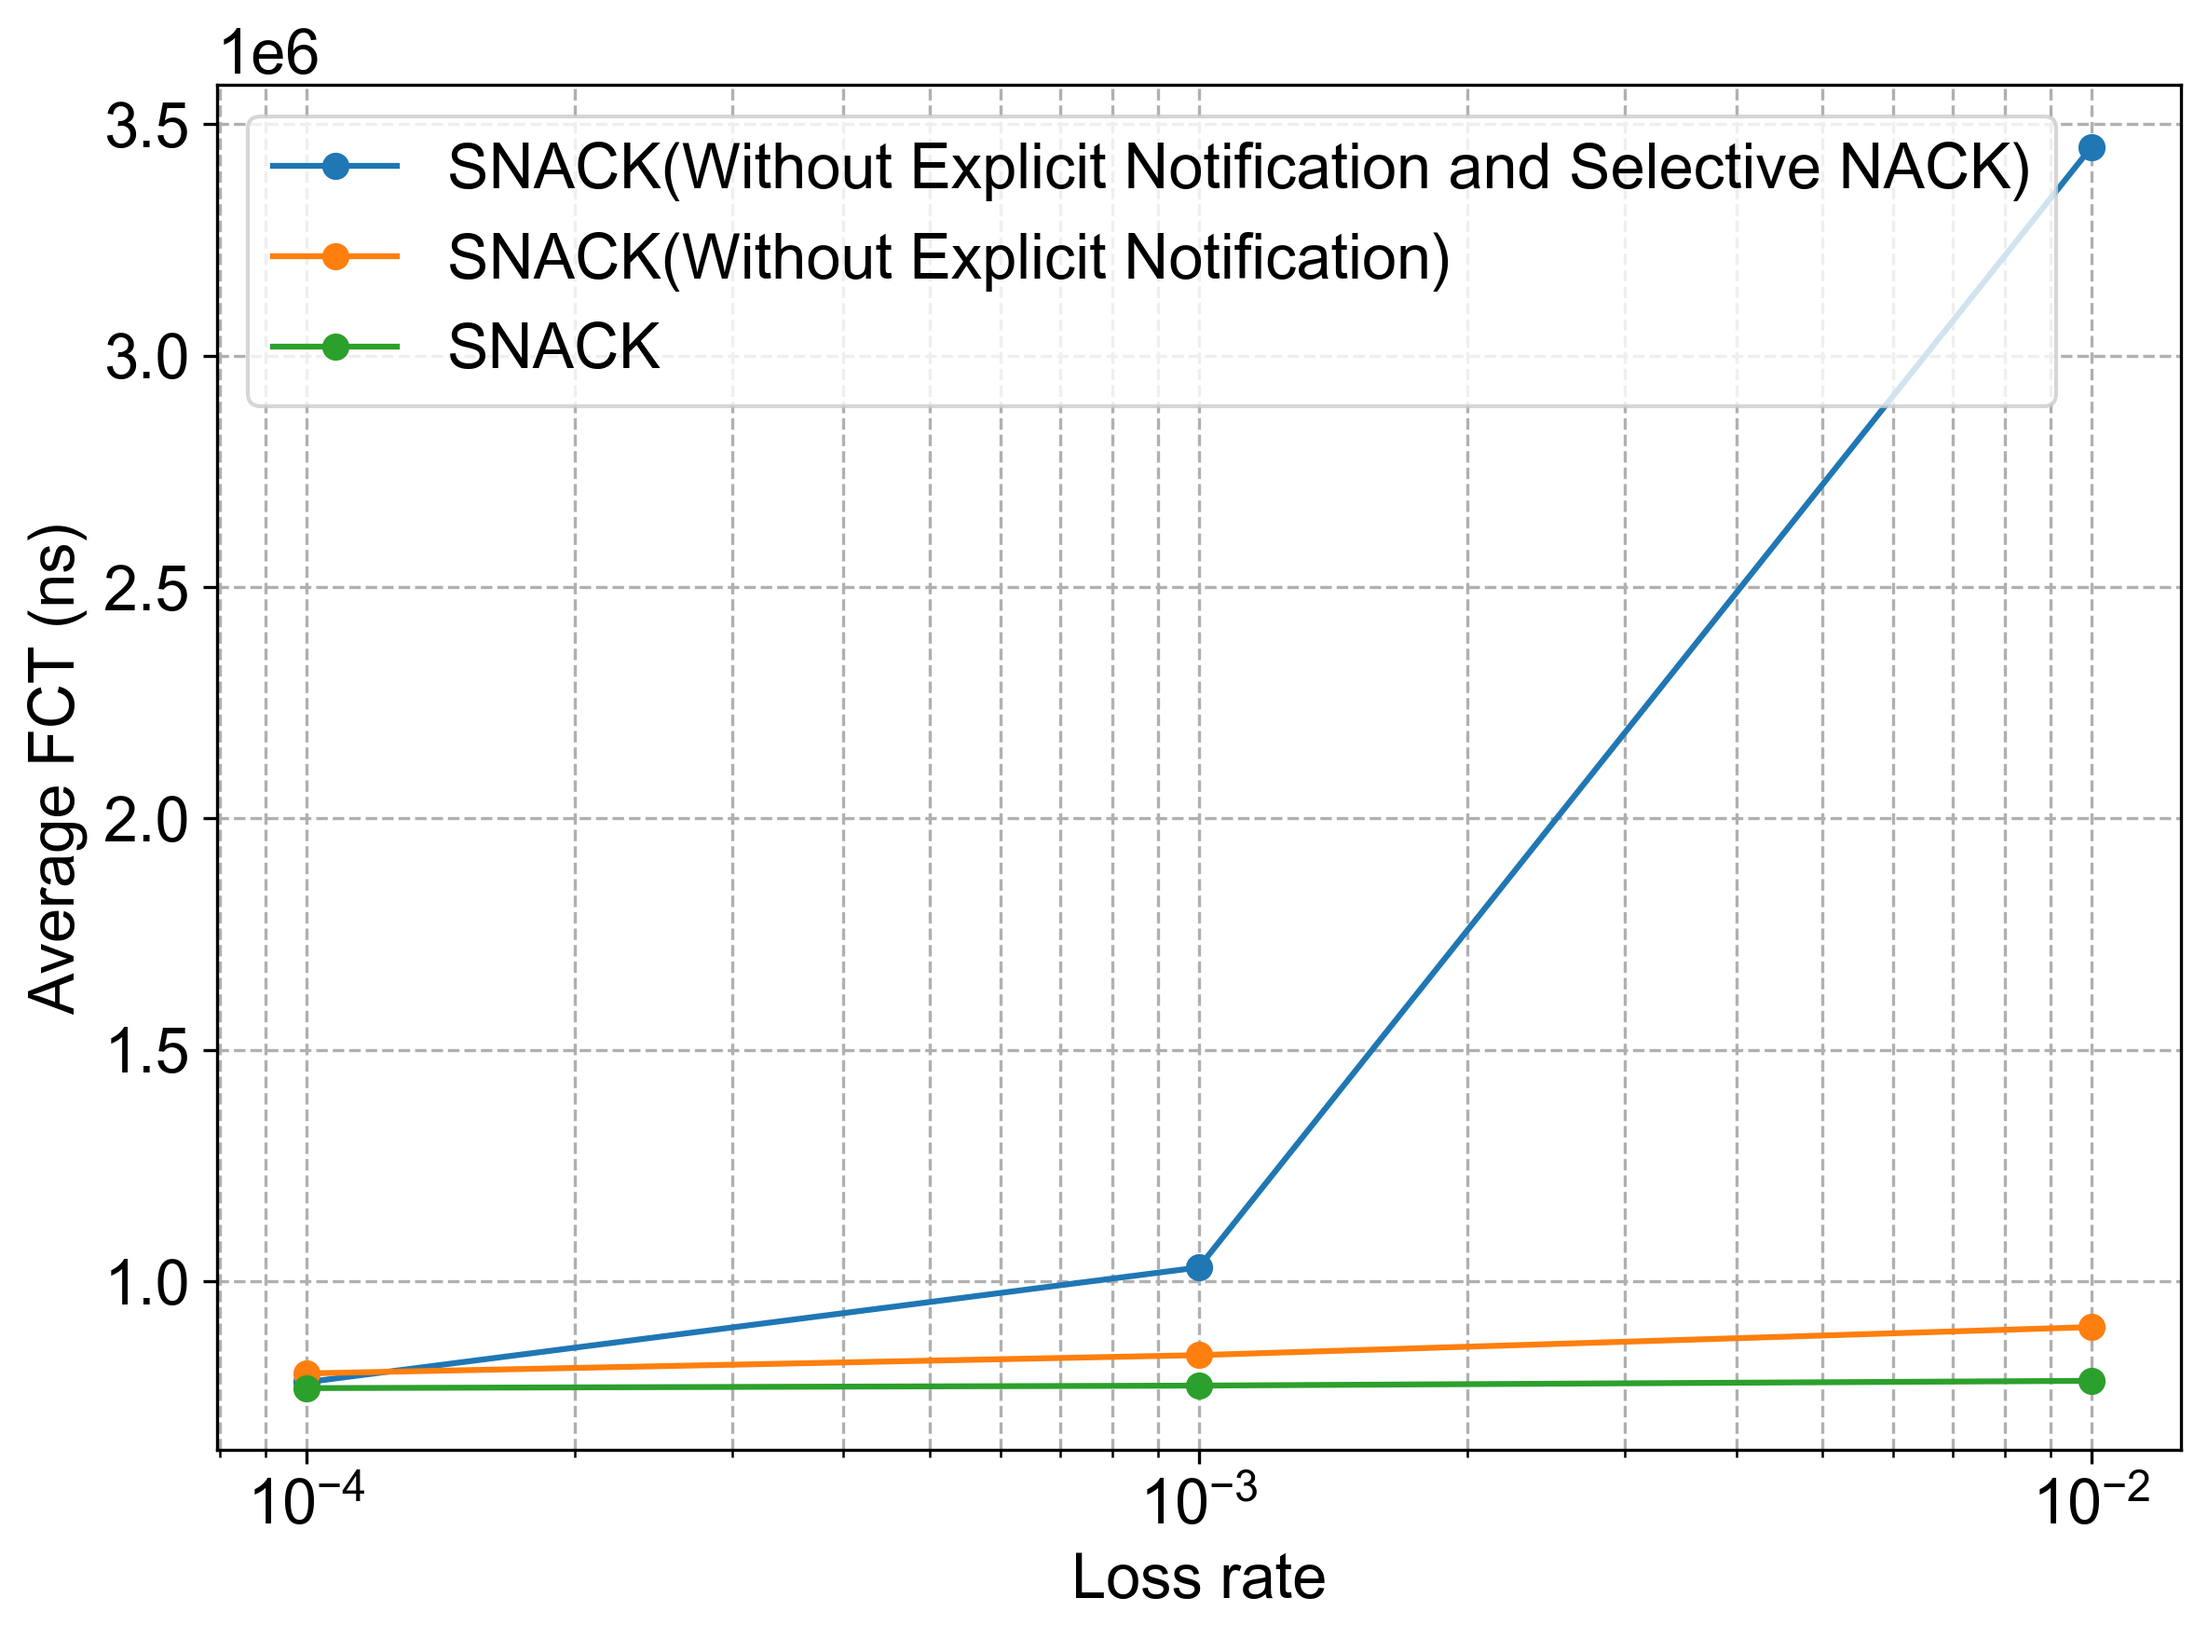
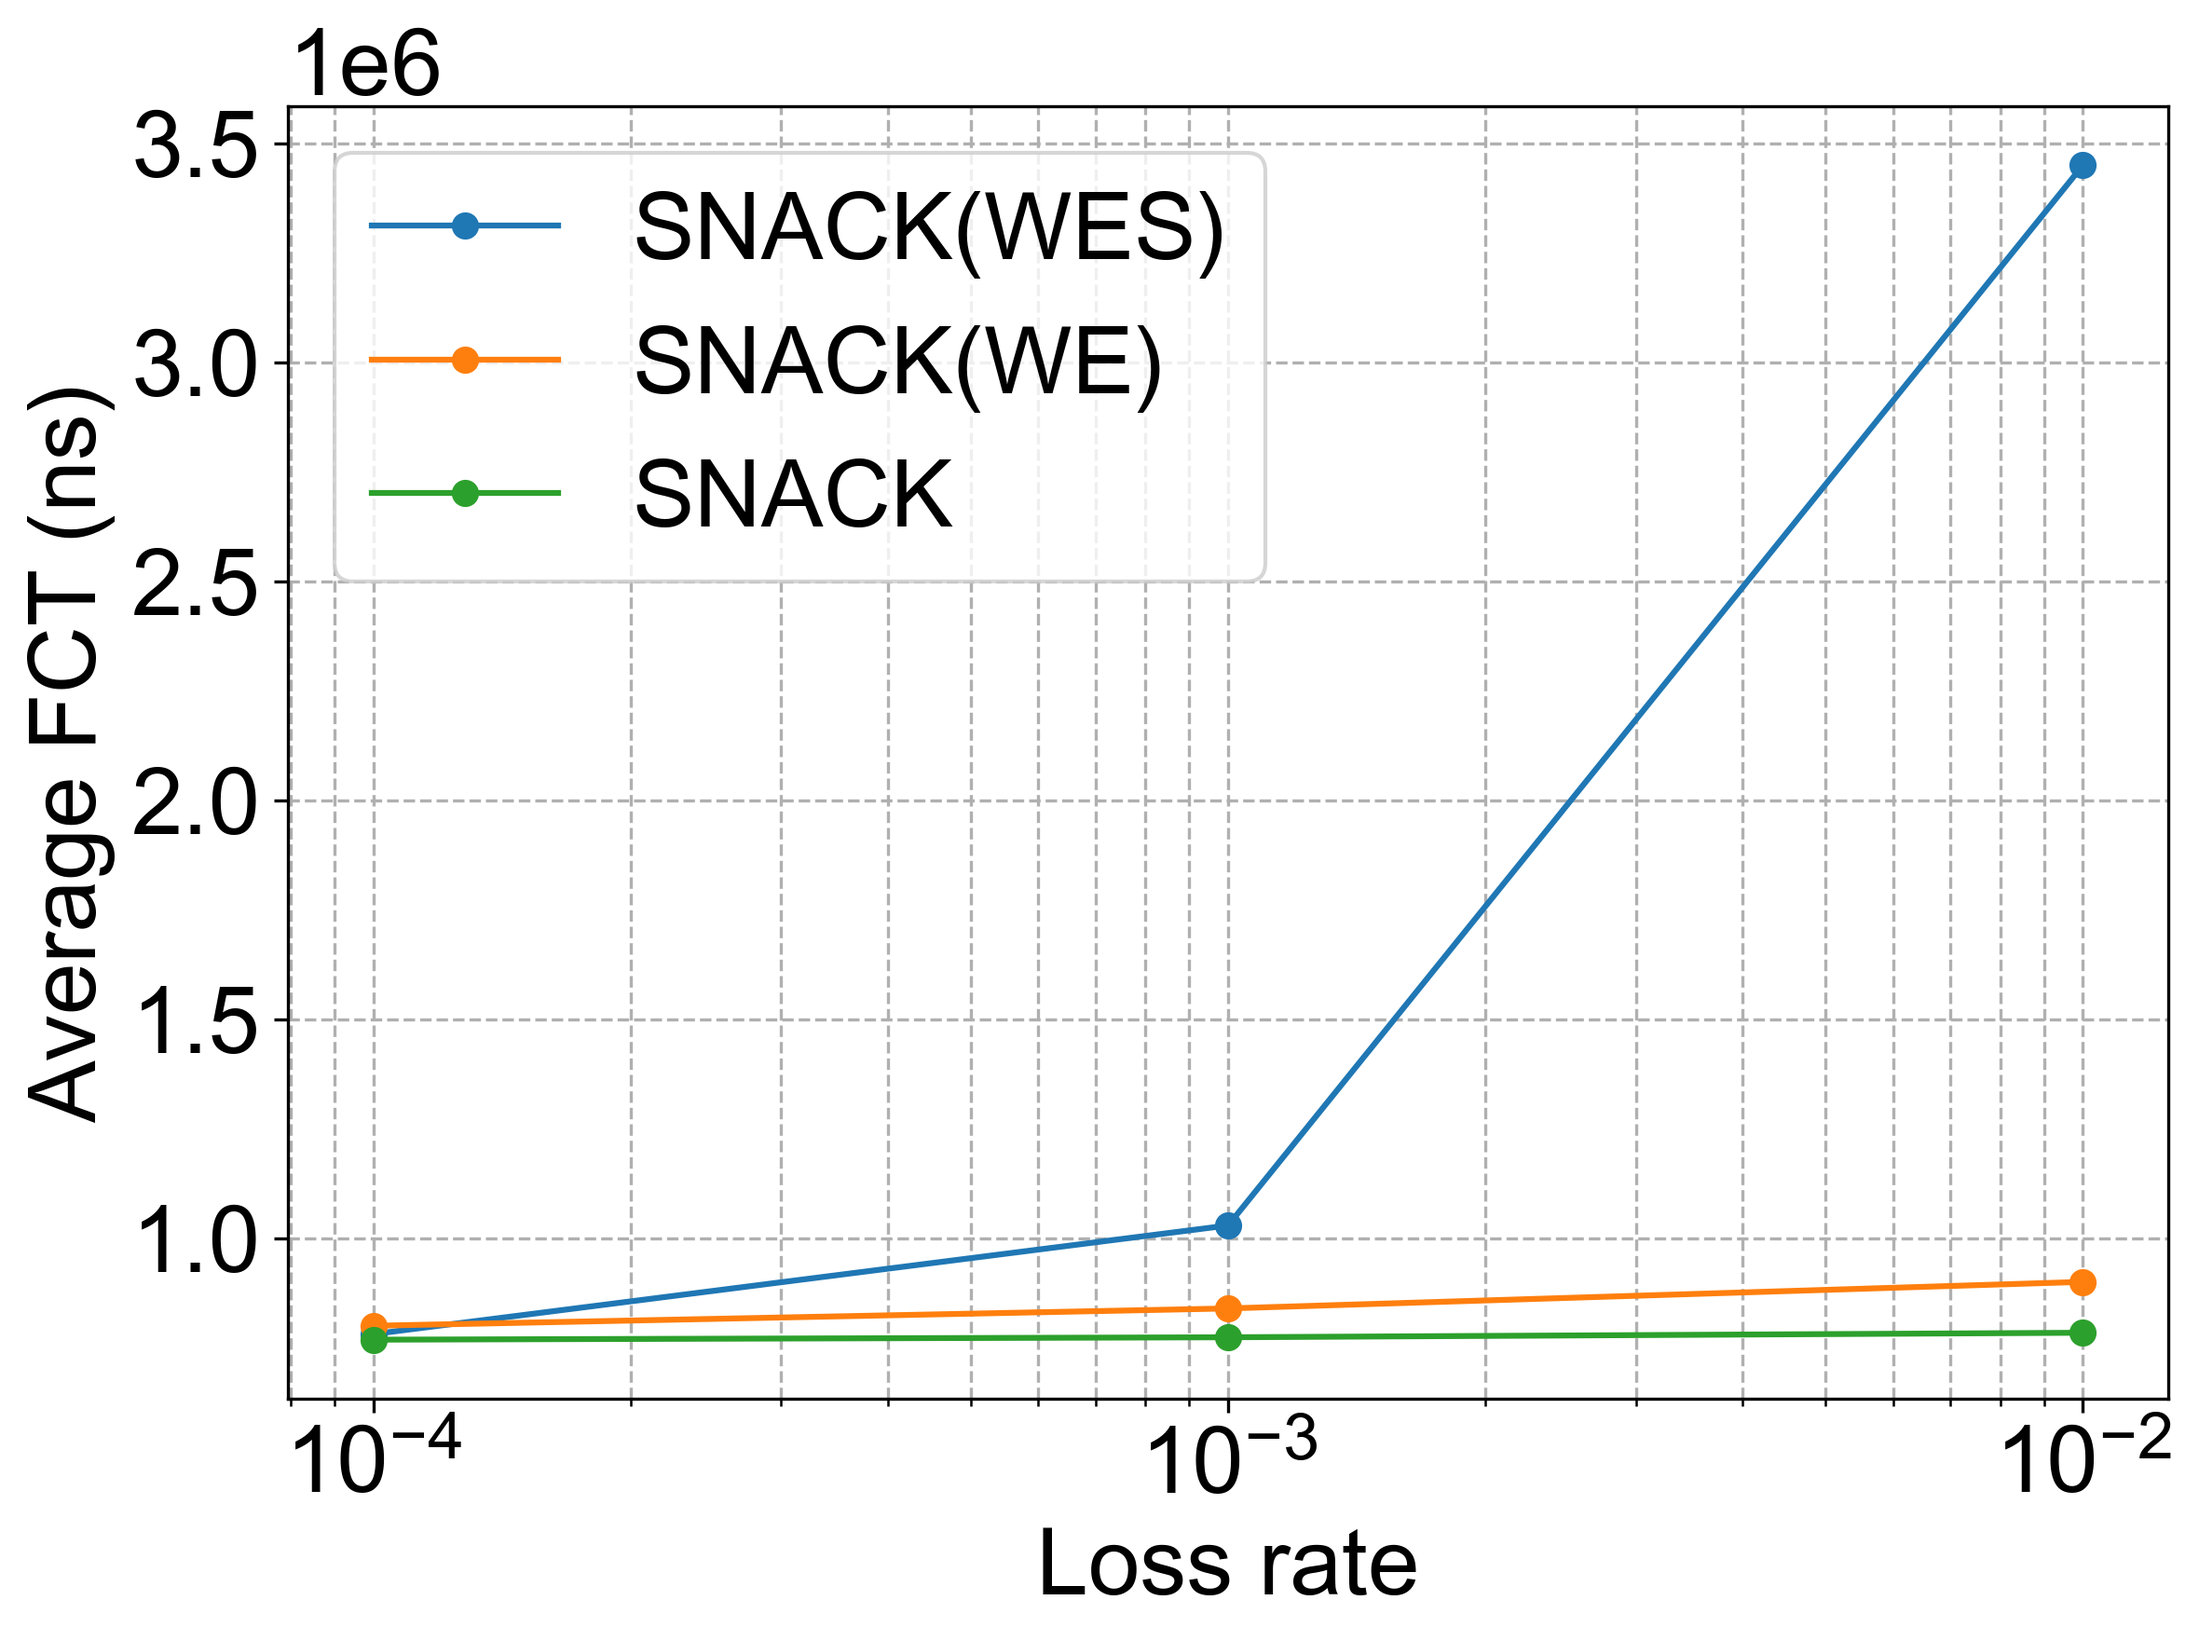
fix some name

diff --git a/fct.py b/fct.py
@@ -7,7 +7,7 @@ from matplotlib.ticker import ScalarFormatter
 import seaborn as sns
 
 # 从Excel文件读取数据
-name = 'ablation'
+name = 'ablation'  # 请根据需要修改文件名
 file_path = 'data/' + name + '.xlsx'  # 请确保文件路径正确
 df = pd.read_excel(file_path, sheet_name='Sheet1')
 print(df)
@@ -15,7 +15,7 @@ print(df)
 plt.rcParams['font.family'] = ['Arial Unicode MS', 'Heiti TC', 'PingFang SC', 'STHeiti']
 plt.rcParams['font.sans-serif'] = plt.rcParams['font.family']
 
-font = 16
+font = 24
 
 # 设置全局字体大小
 plt.rcParams['axes.labelsize'] = font  # 坐标轴标签字体大小
